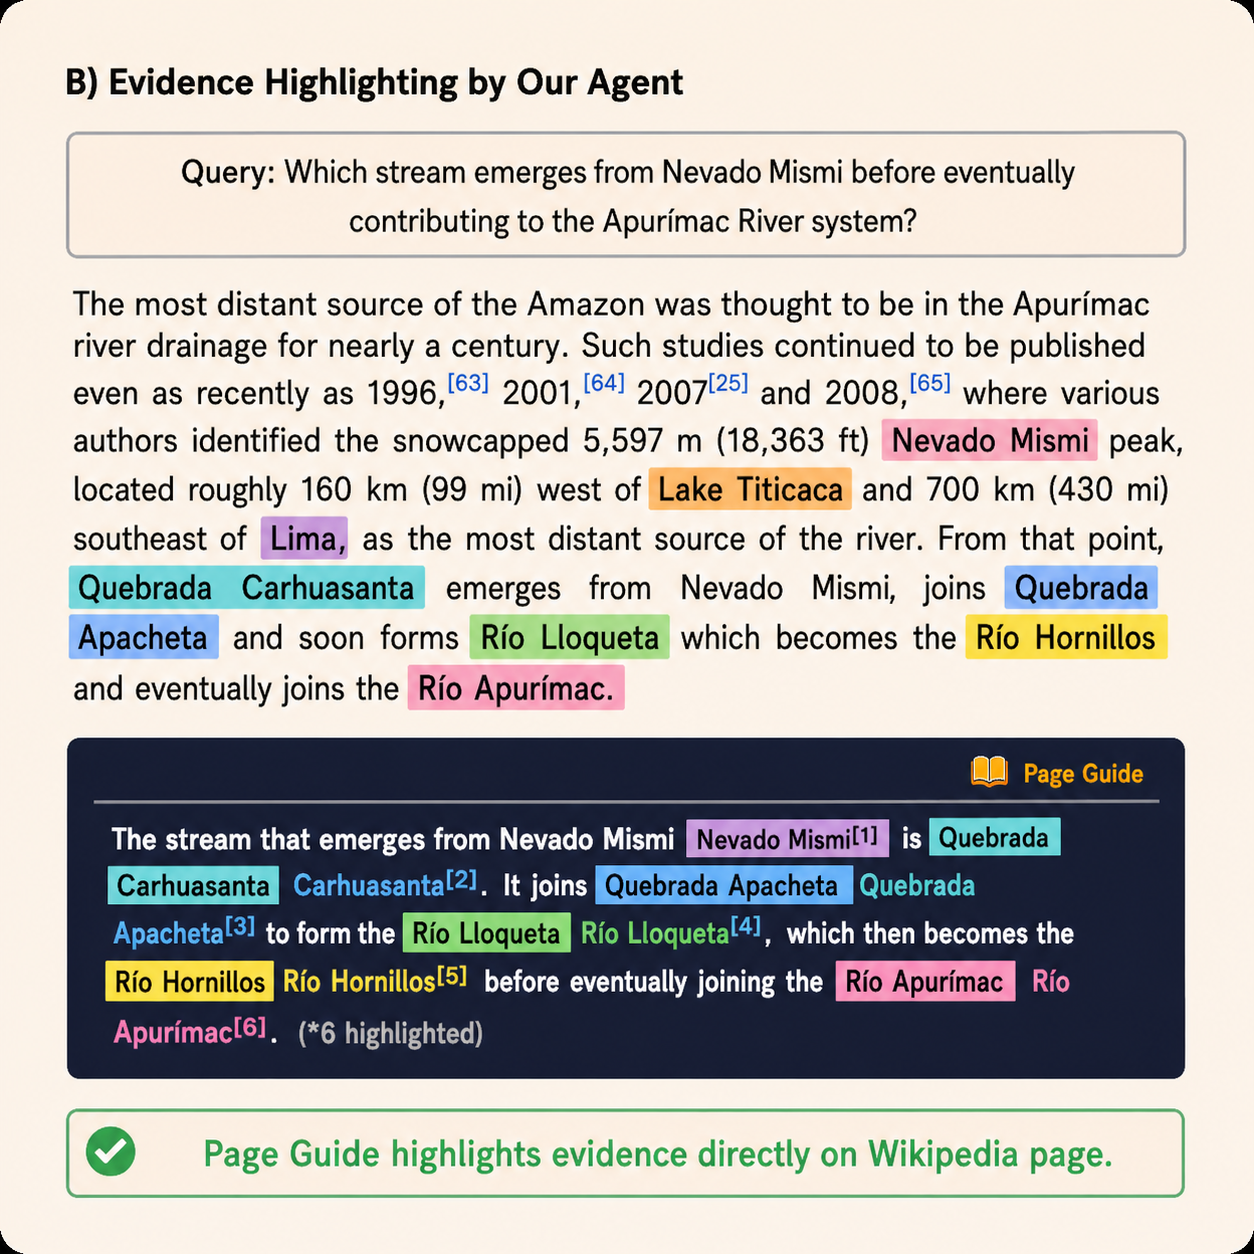
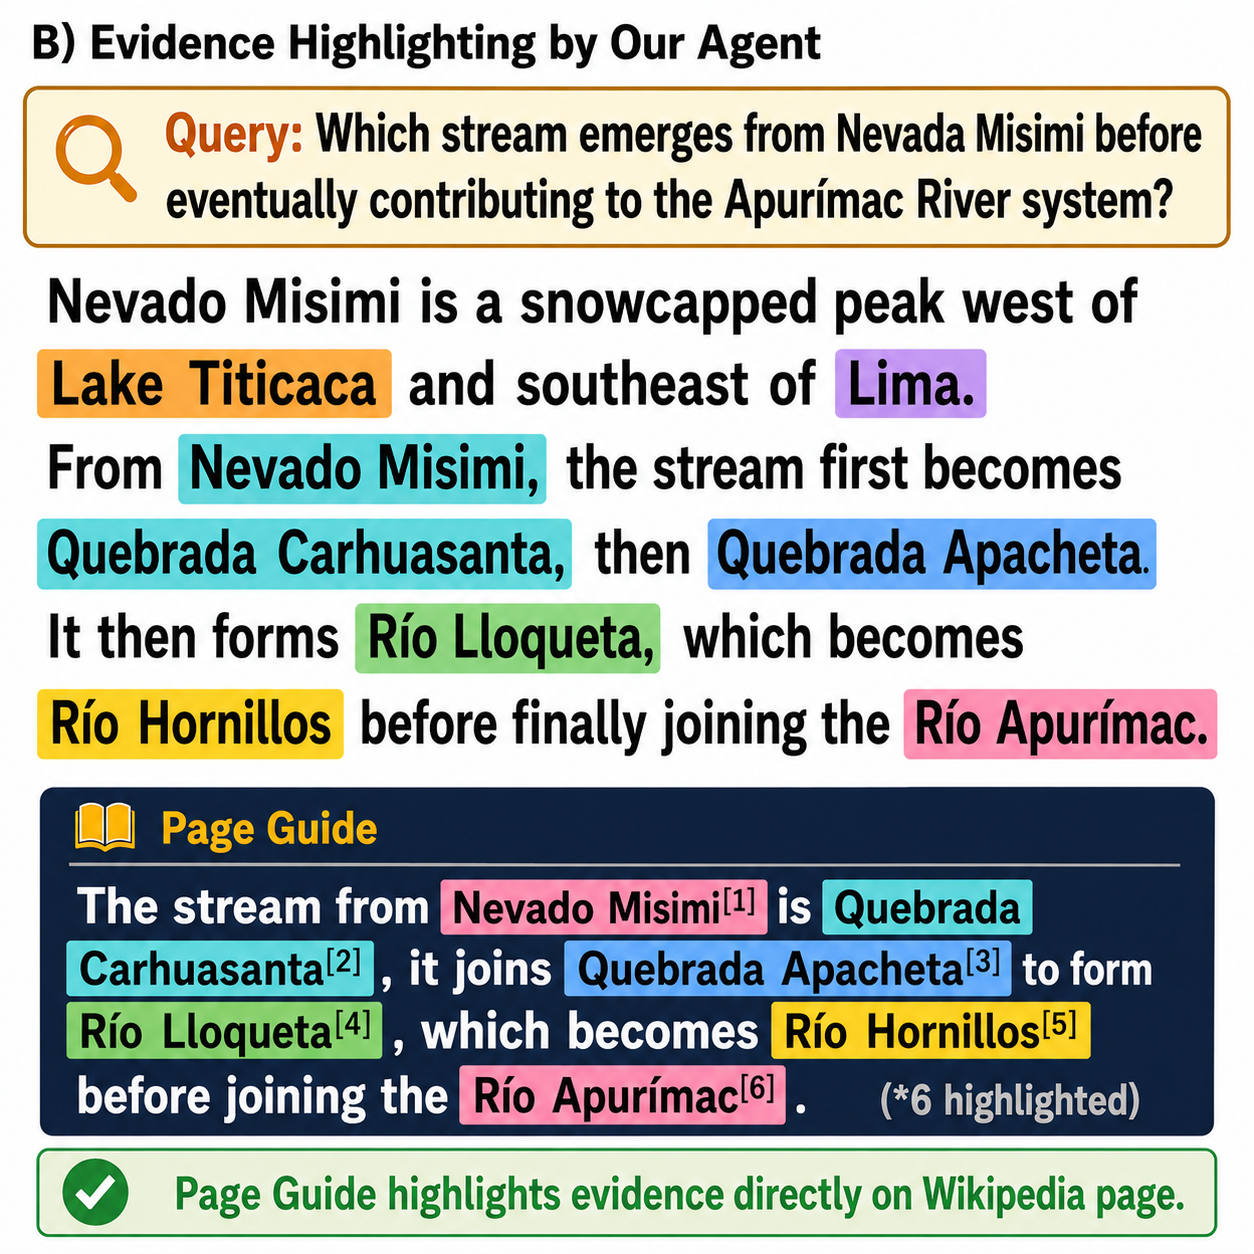
u

diff --git a/index.html b/index.html
@@ -105,6 +105,10 @@
                 ▾]</span>
               <div class="research-fig-wrap">
                 <img src="assets/aboutme/hot.png" alt="HoT figure" class="research-fig">
+                <img src="assets/papers/pageguide/pageguide_2.png" alt="PageGuide figure" class="research-fig">
+              </div>
+              <div class="research-fig-wrap">
+                
               </div>
             </li>
             <li>
